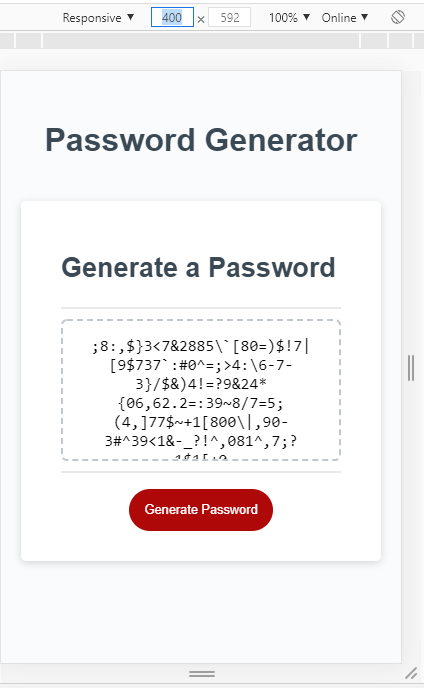
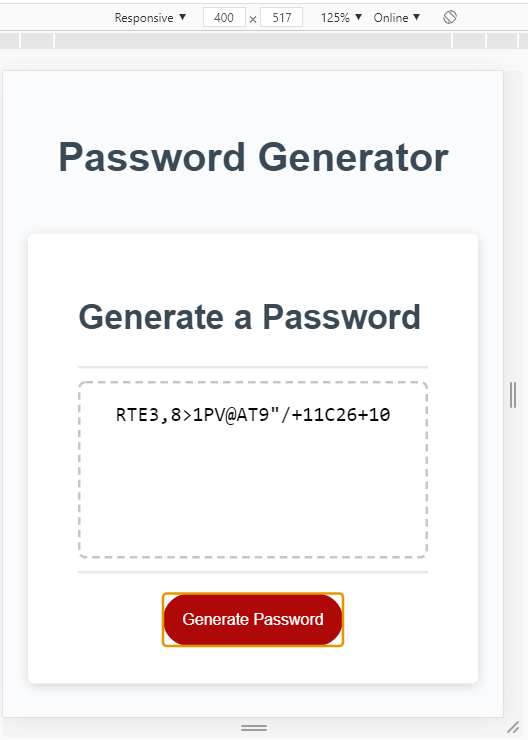
re-created screenshots to better reflect various outcomes & settings in program

diff --git a/js/script.js b/js/script.js
@@ -33,10 +33,10 @@ function generatePassword() {
     while (!validCharacterTypeSelected) {
 
         // need error handling to ensure at least one of these returns true
-        lowerCasePrompt = confirm(errorMessage());
-        upperCasePrompt = confirm(errorMessage());
-        numericPrompt = confirm(errorMessage());
-        specialPrompt = confirm(errorMessage());
+        lowerCasePrompt = confirm("Include lower case characters in new password? (NOTE: at lease one character type must be selected.");
+        upperCasePrompt = confirm("Include upper case characters in new password? (NOTE: at lease one character type must be selected.");
+        numericPrompt = confirm("Include numeric characters in new password? (NOTE: at lease one character type must be selected.");
+        specialPrompt = confirm("Include special characters in new password? (NOTE: at lease one character type must be selected.");
 
         // if at least one of the rule style types were selected true we can proceed out of this loop
         if (lowerCasePrompt || upperCasePrompt || numericPrompt || specialPrompt) {
@@ -47,9 +47,6 @@ function generatePassword() {
 
     }
 
-    function errorMessage() {
-        return "Include lower case characters in new password? (NOTE: at lease one character type must be selected.)";
-    }
 
 
     // creating array of letters and special characters so i can easily randomly choose from them.  numeric doesn't need an array, and for the
@@ -85,7 +82,7 @@ function generatePassword() {
     let tempChar = '';
 
     // run a for loop for as long as the password length entered was
-    for (let i = 0; i < passwordLengthPrompt + 1; i++) {
+    for (let i = 0; i < passwordLengthPrompt; i++) {
 
         // now we're going to construct this password one character at a time with this loop
         // depending on which character types were selected we'll use those as the password's characters
